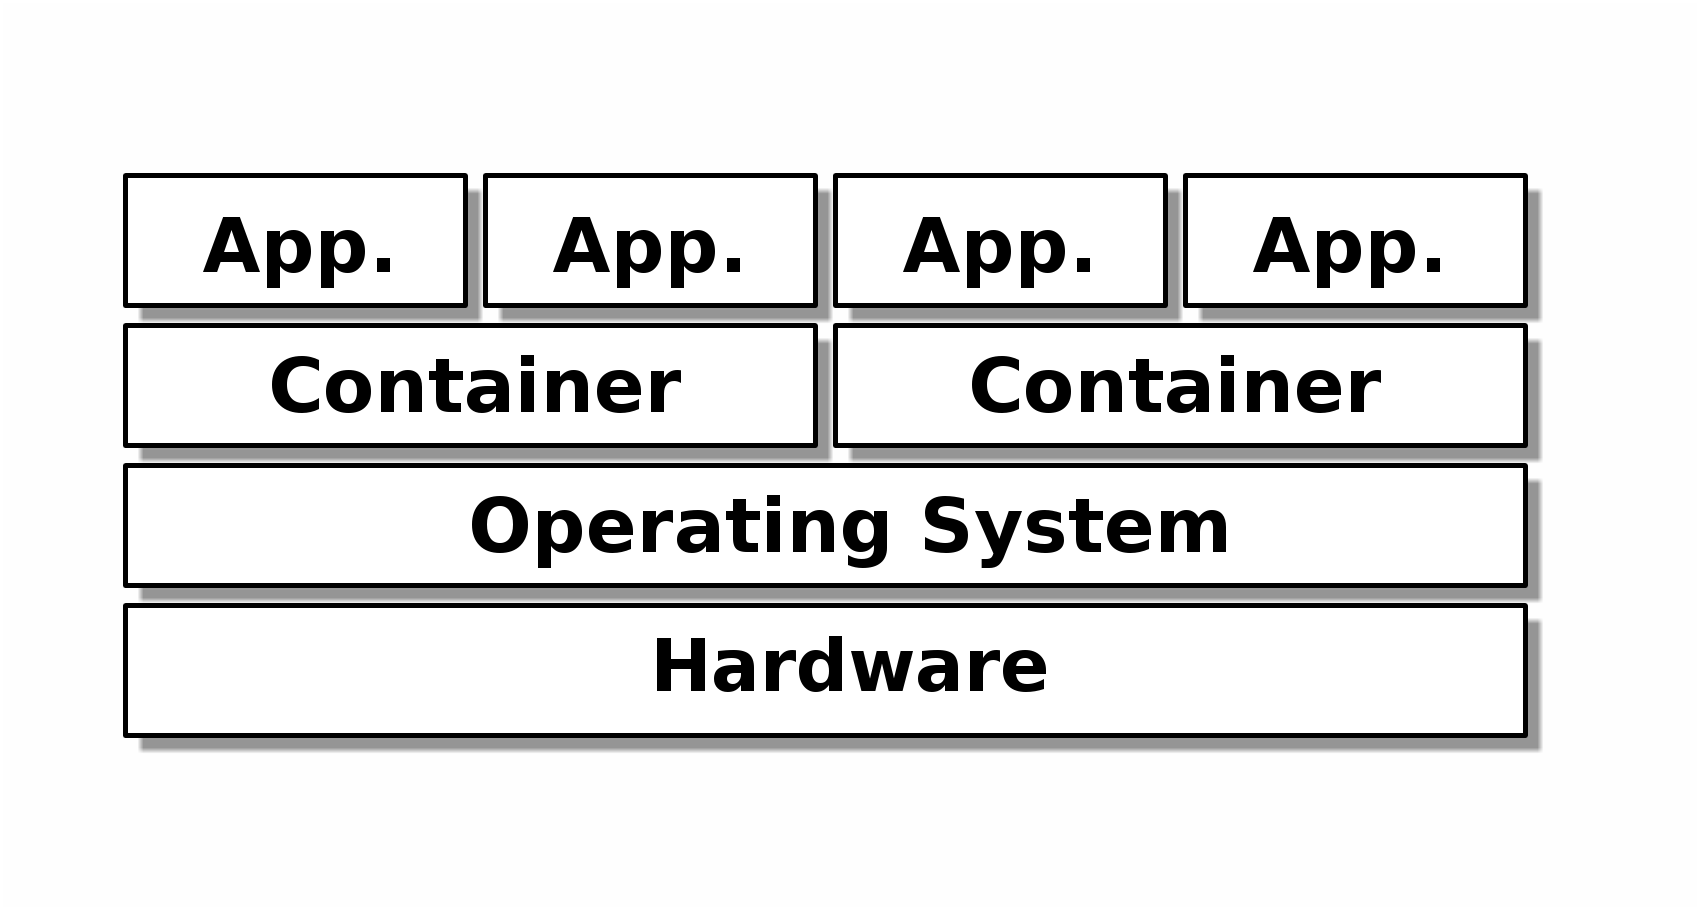
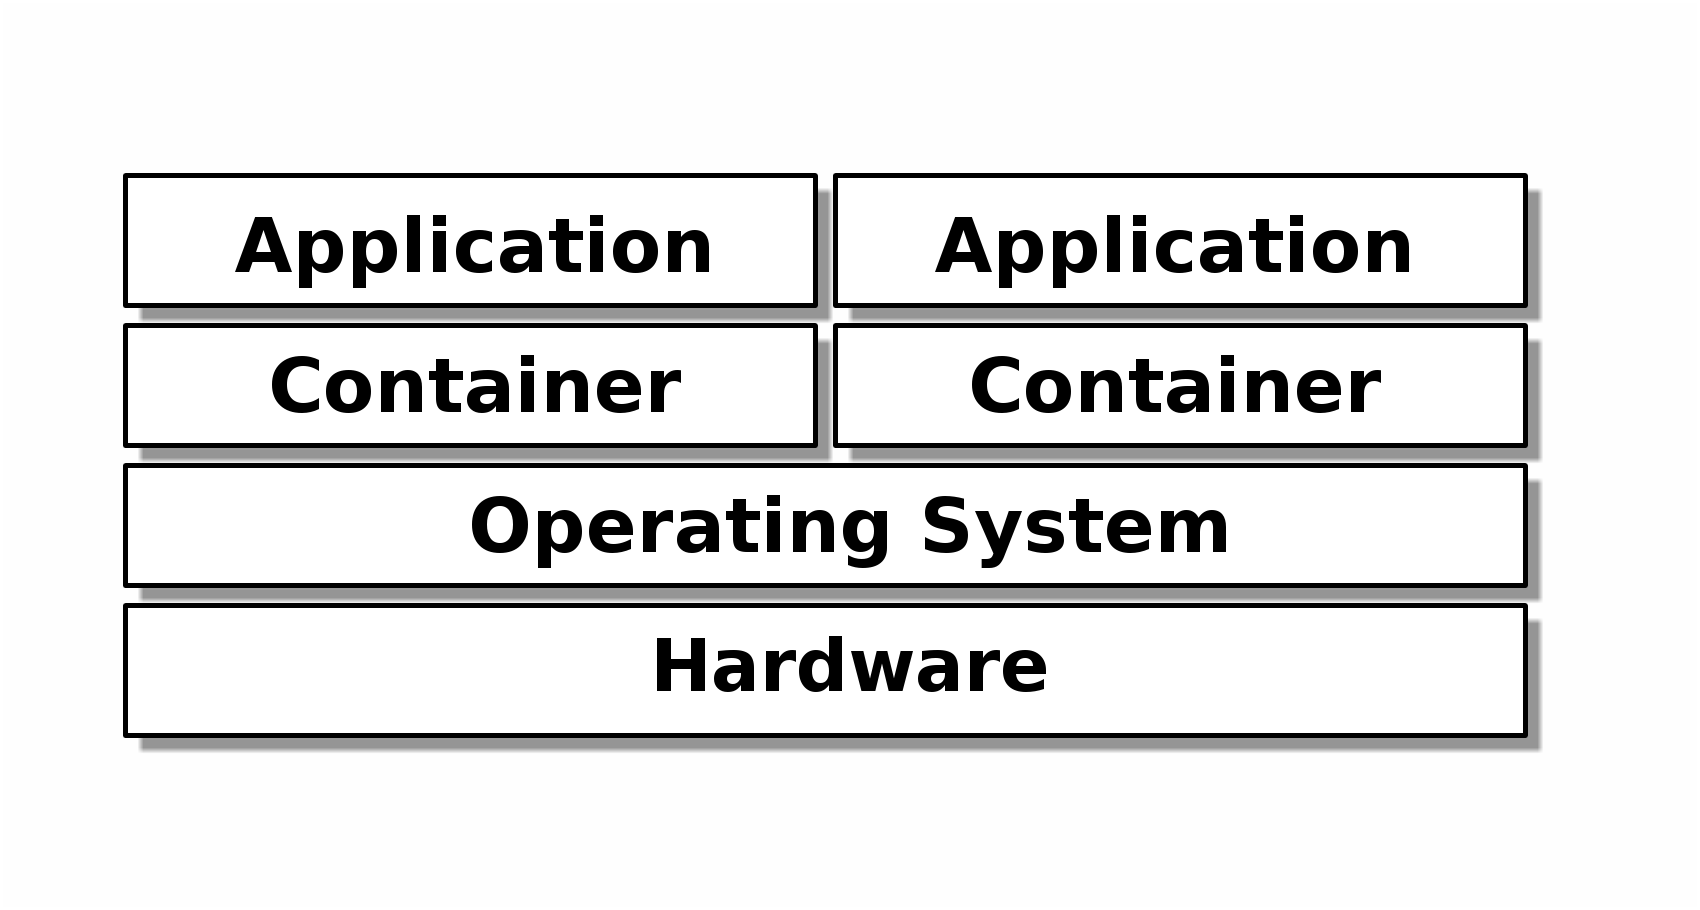
Improve explications for Docker

Changed region(s): [[0.1247, 0.1846, 0.4365, 0.3692], [0.53, 0.1846, 0.8418, 0.3692]]

diff --git a/slides.rst b/slides.rst
@@ -100,9 +100,9 @@ Container
 Architecture
 ------------
 ..
-    +------+------+------+------+
-    | App. | App. | App. | App. | 
-    +------+------+------+------+
+    +-------------+-------------+
+    | Application | Application | 
+    +-------------+-------------+
     |  Container  |  Container  |
     +-------------+-------------+
     |      Operating System     |
@@ -111,19 +111,76 @@ Architecture
     +---------------------------+
 .. image:: images/architecture-container.png
 
+Docker - Advantages and Use cases
+---------------------------------
+
+Advantages:
+
+- Lightweight and fast
+- Easy scaling
+- Easy deployment and development
+- Portability of containers
+
+Use cases for us:
+
+- Development -> Testing -> Deployment cycle
+- Hadoop + Hadoop jobs
+- Easy deployment to external server
 
 Docker - Concepts
 -----------------
 ..
-    +-----------+
-    |   Image   |
-    +-----+-----+
+
+  +---------------+
+  | Repository    |
+  | +-----------+ |
+  | |   Image   | |
+  | +-----+-----+ |
+  +-------|-------+
           |
           V
     +-----+-----+
     | Container |
     +-----------+
 .. image:: images/docker.png
+
+Docker - Concepts - Image
+-------------------------
+..
+
+   +----------------------+
+   | Container Layer (rw) |
+   +----------------------+
+   |  Image N Layer (ro)  |
+   +----------------------+
+   +----------------------+
+   |  Image 2 Layer (ro)  |
+   +----------------------+
+   |    Base Image (ro)   |
+   +----------------------+
+.. image:: images/docker-image.png
+
+Docker - Images example
+-----------------------
+..
+
+   +-----+------+
+   | PHP | Perl |
+   +-----+------+---------+
+   |  Apache 2  | MySQL   |
+   +------------+---------+
+   |     Ubuntu 14.04     |
+   +----------------------+
+.. image:: images/images-example.png
+
+Docker - Concepts - Container
+-----------------------------
+
+- Environment for executing an application
+- Based on an image
+- Isolated from other containers/processes
+- Networking between containers or with host
+- Resources (CPU, Memory, I/O) can be limited
 
 Docker - Constructing a container
 ---------------------------------
@@ -173,18 +230,3 @@ Docker - Deployment
 1. Pull Image *or* Build from Dockerfile
 2. Run one or more containers
 
-Docker - Advantages and Use cases
----------------------------------
-
-Advantages:
-
-- Lightweight and fast
-- Easy scaling
-- Easy deployment and development
-- Portability of containers
-
-Use cases for us:
-
-- Development -> Testing -> Deployment cycle
-- Collaboration between developers
-- Easy deployment to external server
